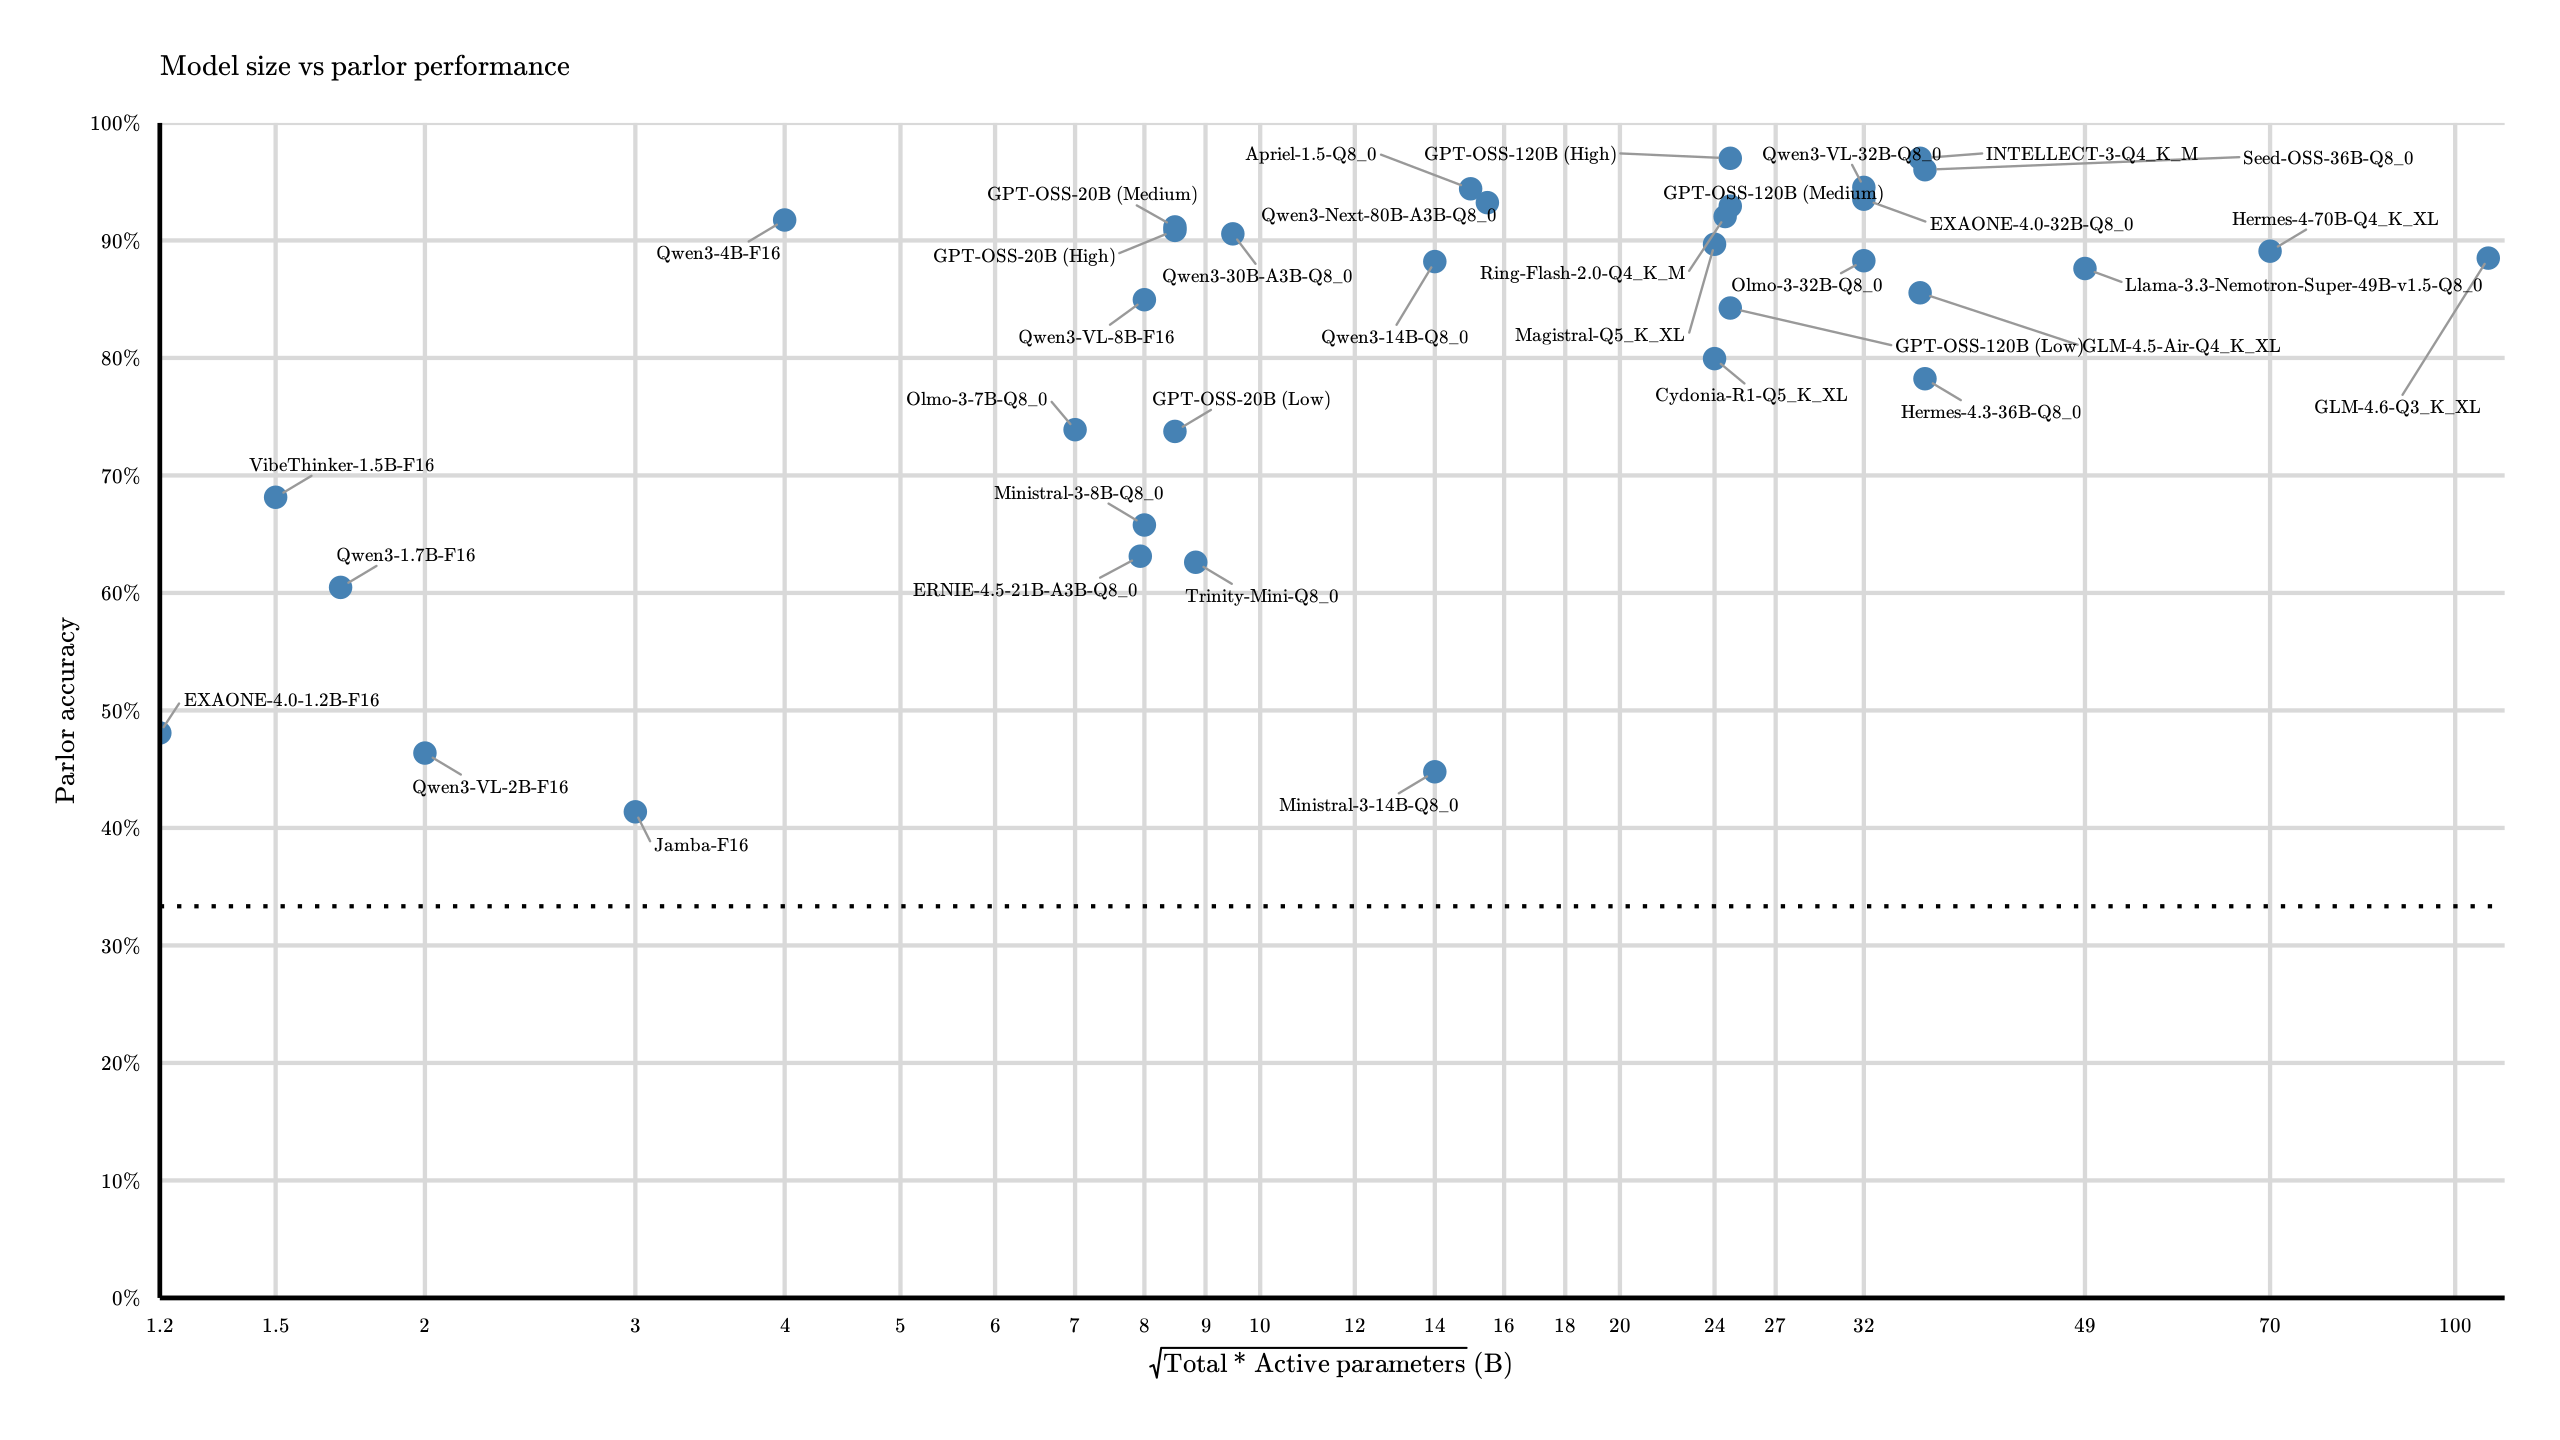
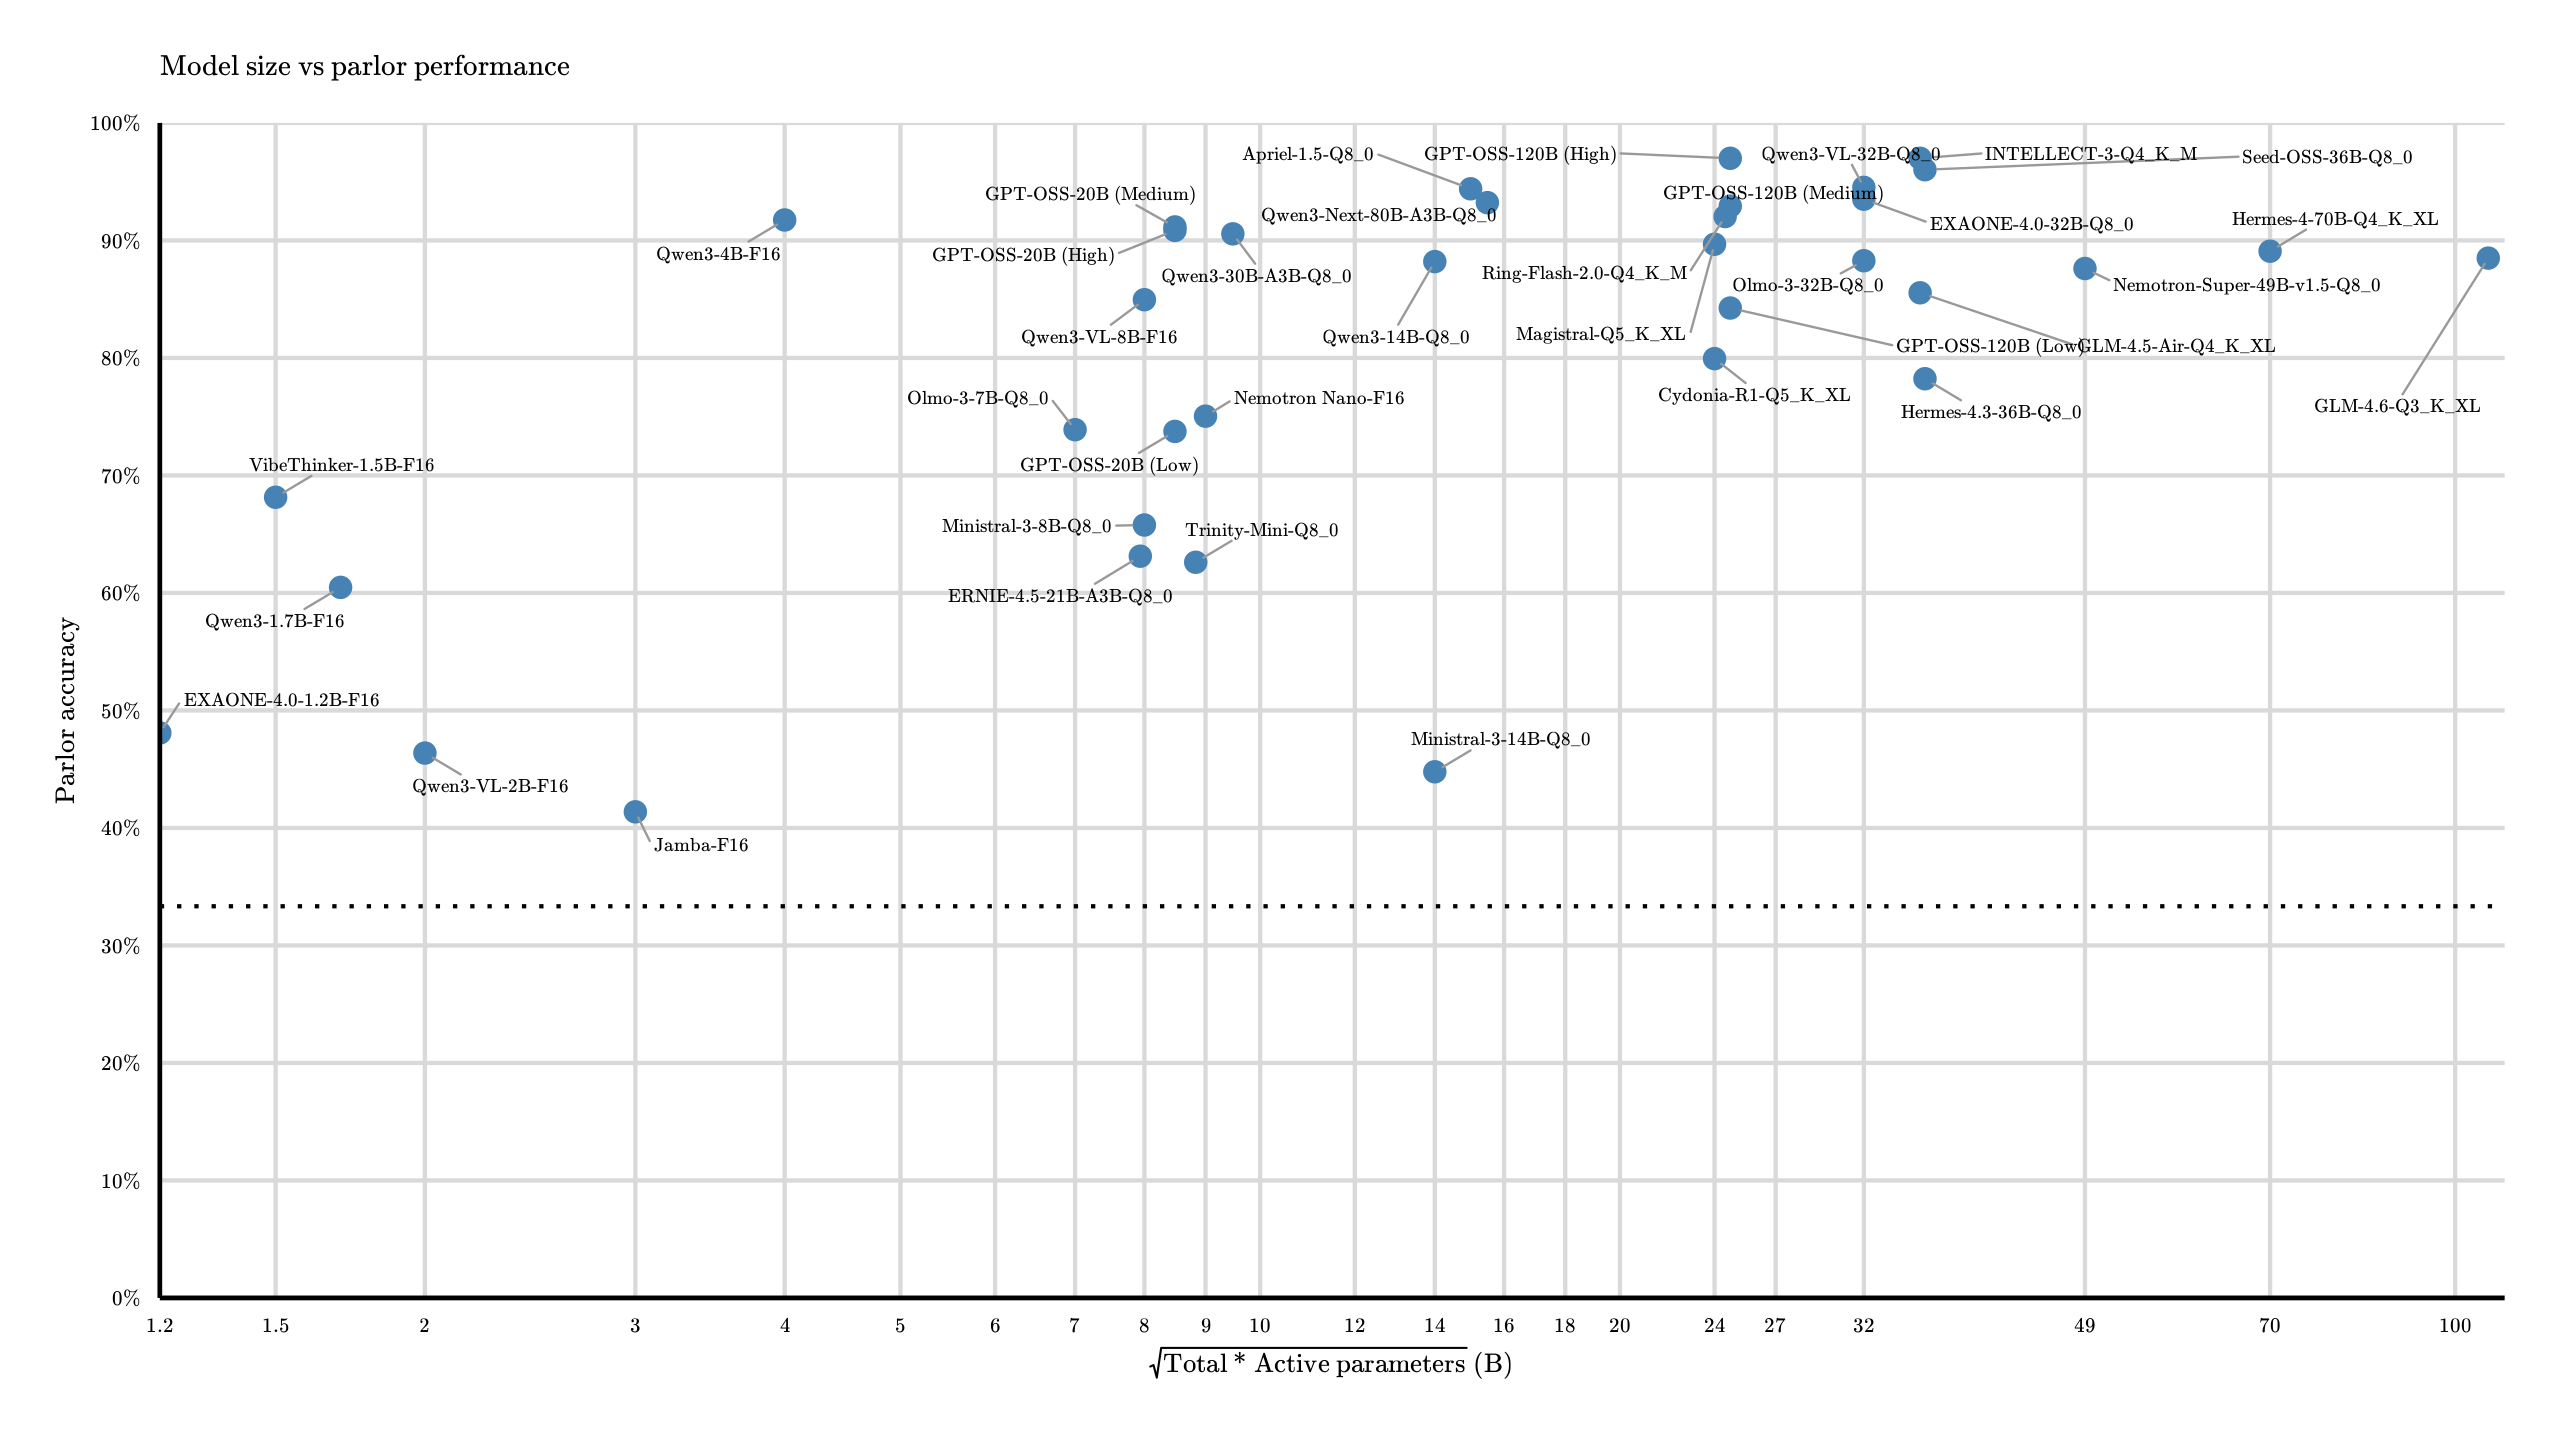
Parlor: Nemotron Nano, total parameter chart

diff --git a/pages/parlor-reasoning.html b/pages/parlor-reasoning.html
@@ -164,14 +164,14 @@
       <td>41.4%</td>
       <td>3211/3221 tokens</td>
     </tr>
-	<tr>
+	<!-- <tr>
       <td><a href="https://huggingface.co/aquif-ai/aquif-3.5-Max-42B-A3B">Aquif-3.5-Max-42B-A3B</a></td>
 	  <td>42B</td>
 	  <td>Q8_0</td>
       <td>113*3</td>
-      <td>87.9%</td> <!-- 298/339, often failed to close thinking needing more manual correction -->
+      <td>87.9%</td> 298/339, often failed to close thinking needing more manual correction
       <td>5752/3734 tokens</td>
-    </tr>
+    </tr> Commented out - may not be a particularly legitimate model -->
 	<tr>
       <td><a href="https://huggingface.co/ServiceNow-AI/Apriel-1.5-15b-Thinker">Apriel 1.5 Thinker</a></td>
 	  <td>15B</td>
@@ -356,14 +356,14 @@
       <td>87.6%</td> <!-- 99/113-->
       <td>5555/3908 tokens</td>
     </tr>
-	<!-- <tr>
+	<tr>
       <td><a href="https://huggingface.co/nvidia/NVIDIA-Nemotron-Nano-9B-v2">NVIDIA Nemotron Nano 9B v2</a></td>
 	  <td>9B</td>
 	  <td>F16</td>
-      <td>113*</td>
-      <td>%</td>
-      <td>/ tokens</td>
-    </tr> -->
+      <td>113*5</td>
+      <td>75.0%</td> <!-- 424/565 -->
+      <td>5167/4079 tokens</td>
+    </tr>
 	<tr>
       <td><a href="https://huggingface.co/allenai/Olmo-3-7B-Think">Olmo-3-7B-Think</a></td>
 	  <td>7B</td>
@@ -455,6 +455,7 @@
 	This shows, approximately, performance relative to model size.
 	I take the geometric mean of active & total parameters as an attempt to better place MoE models (although I have some concerns on how accurate that is).
 	Dense models are placed as you'd expect.
+	<a href="images/parlor-reasoning/named_scatter_total.png">Here's the same chart, with respect to just the total parameter count</a>.
 </p>
 <center><div class="figure">
 	<img src="images/parlor-reasoning/named_scatter_efficiency.png" width="100%"/>

diff --git a/pages/changelog.html b/pages/changelog.html
@@ -56,7 +56,7 @@ This doesn't span the entire site history - changes before 2021 are not listed.<
 
 <ul>
 	<li>2025-11-26 - New article: <a href="artificial-quadrants">Minding your Quadrants</a>.</li>
-	<li>2025-11-19 - <a href="parlor-reasoning">Updated Parlor tests</a> with more models: Gemini 3 Pro (x10/prompt), EXAONE, Hermes 4, Ring Flash, Aquif 3.5 Max, VibeThinker 1.5B.</li>
+	<li>2025-11-19 - <a href="parlor-reasoning">Updated Parlor tests</a> with more models: Gemini 3 Pro (x10/prompt), EXAONE, Hermes 4, Ring Flash, VibeThinker 1.5B.</li>
 	<li>2025-11-02 - New article: <a href="parlor-reasoning">Reasoning LLMs vs the Parlor Puzzle</a>. Updated site style, it should also load faster.</li>
 	<li>2025-09-15 - New article: <a href="llm-quants">LLM Quantization Tests</a>.</li>
 	<li>2025-07-26 - New article: <a href="deep-research">ChatGPT's Deep Research</a>.</li>
